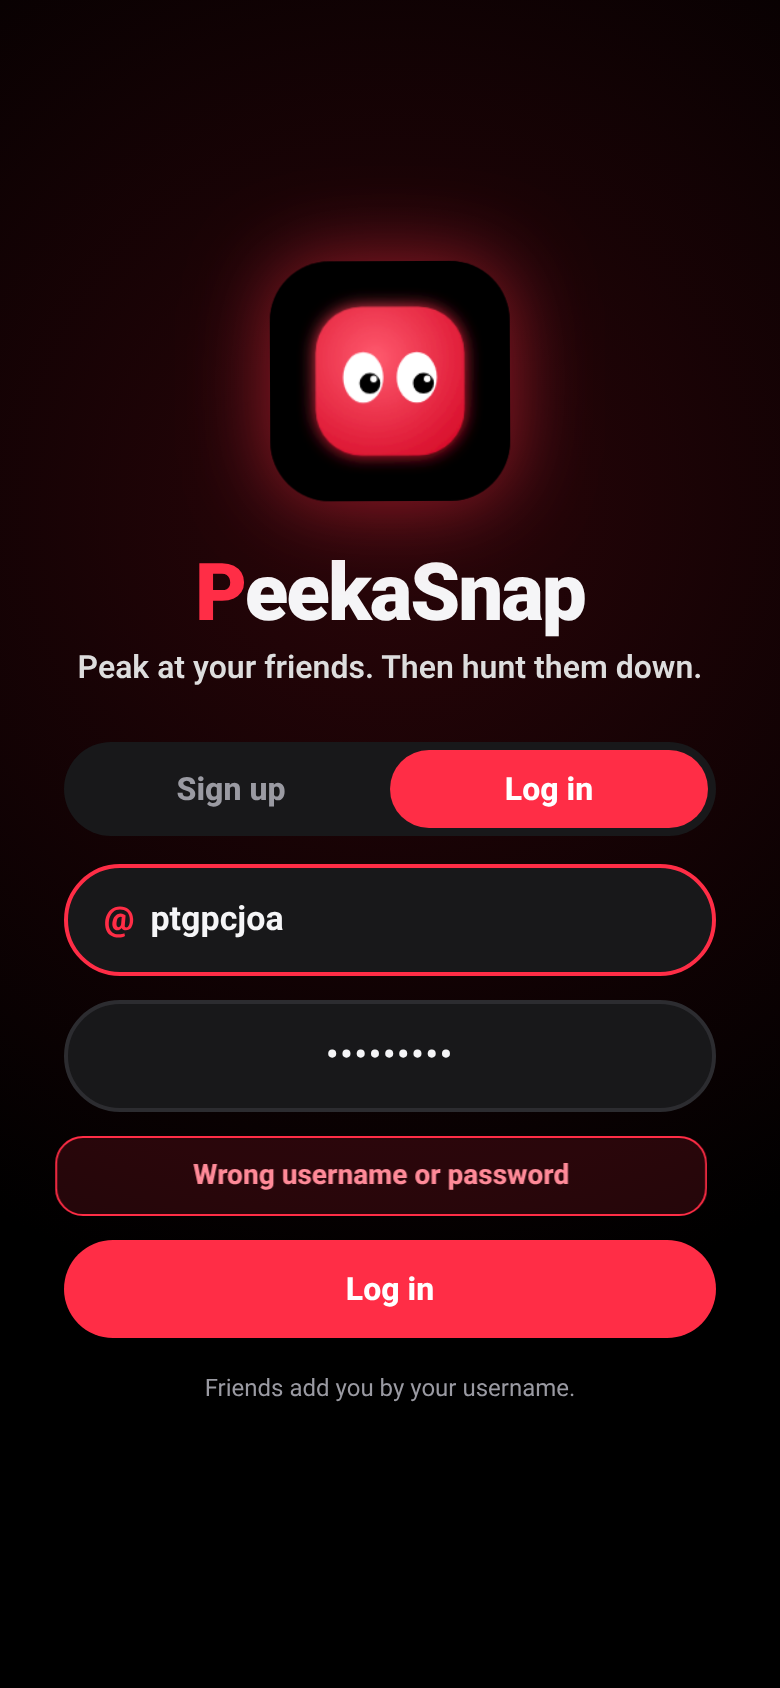
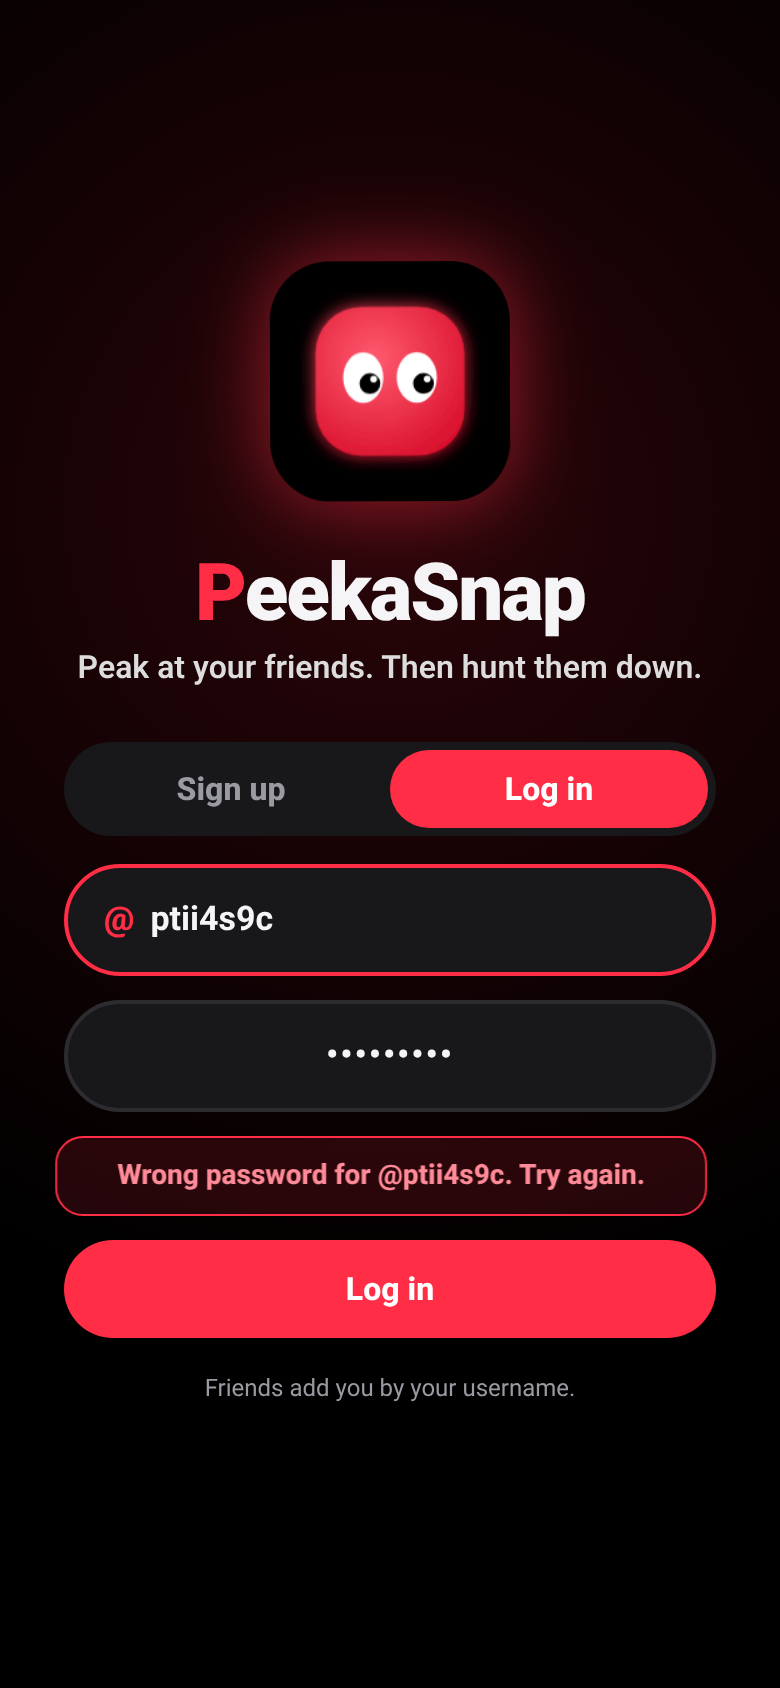
Login: clear 'No account with that username' error + Sign up shortcut; explain stale sign-outs after server resets; SW v9

Changed region(s): [[0.1538, 0.6777, 0.8308, 0.7085], [0.2154, 0.5237, 0.3692, 0.5545]]

diff --git a/public/app.js b/public/app.js
@@ -200,7 +200,13 @@ async function boot() {
   if (!S.token) return showOnboard();
   try { const me = await api('/api/me'); S.user = me.user; S.groups = me.groups; }
   catch (e) {
-    if (e.status === 401) { localStorage.removeItem('ps_token'); S.token = null; return showOnboard('login'); }
+    if (e.status === 401) { // saved login no longer valid (logged out elsewhere, or the free server was reset and lost accounts)
+      localStorage.removeItem('ps_token'); S.token = null;
+      const last = localStorage.getItem('ps_last_user');
+      showOnboard('login', last ? `You were signed out of @${last}. Log in again, or if PeekaSnap says the account doesn't exist, sign up again with the same username.` : 'You were signed out. Log in again.');
+      if (last) $('#login-username').value = last;
+      return;
+    }
     bootTries = (bootTries || 0) + 1; toast(bootTries > 1 ? e.message : 'Connecting to PeekaSnap…'); // e.g. server waking up
     if (bootTries < 8) setTimeout(boot, 3000); return;
   }
@@ -214,7 +220,9 @@ async function boot() {
   startWatch(); ensurePush();
   setTimeout(maybeShowInstallCard, 2500);
 }
-function showOnboard(mode = 'signup') {
+function showOnboard(mode = 'signup', note = '') {
+  $('#auth-note').textContent = note; $('#auth-note').classList.toggle('hidden', !note || mode === 'setpw');
+  $('#login-to-signup').classList.add('hidden');
   $('#onboard').classList.remove('hidden'); $('#app').classList.add('hidden');
   ['signup', 'login', 'setpw'].forEach(m => $('#' + m + '-form').classList.toggle('hidden', m !== mode));
   $('.auth-tabs').classList.toggle('hidden', mode === 'setpw');
@@ -224,6 +232,13 @@ function showOnboard(mode = 'signup') {
 }
 $('#tab-signup').onclick = () => showOnboard('signup');
 $('#tab-login').onclick = () => showOnboard('login');
+// "No account with that username": jump to Sign up with the username (and password) already filled in
+$('#login-to-signup').onclick = () => {
+  const u = $('#login-username').value.trim().toLowerCase().replace(/^@/, ''), pw = $('#login-password').value;
+  showOnboard('signup');
+  const su = $('#signup-username'); su.value = u; su.dataset.touched = 1; $('#signup-password').value = pw;
+  setTimeout(() => $('#signup-name').focus(), 60);
+};
 async function afterAuth(token) {
   S.token = token; localStorage.setItem('ps_token', token); if (S.socket) S.socket.auth.token = token;
   const q = new URLSearchParams(location.search);
@@ -257,7 +272,7 @@ $('#signup-form').onsubmit = e => {
     : pw.value.length < 6 ? { el: pw, msg: 'Password must be at least 6 characters.' } : null,
   async () => {
     const r = await api('/api/signup', { body: { name: name.value.trim(), username: user.value, password: pw.value } });
-    pw.value = ''; await afterAuth(r.token);
+    pw.value = ''; localStorage.setItem('ps_last_user', r.user.username); await afterAuth(r.token);
   });
 };
 $('#login-form').onsubmit = e => {
@@ -266,8 +281,14 @@ $('#login-form').onsubmit = e => {
   runAuthForm(e.target, 'login-err', () =>
     !user.value.trim() ? { el: user, msg: 'Enter your username.' } : !pw.value ? { el: pw, msg: 'Enter your password.' } : null,
   async () => {
-    const r = await api('/api/login', { body: { username: user.value, password: pw.value } });
-    pw.value = ''; await afterAuth(r.token);
+    $('#login-to-signup').classList.add('hidden');
+    let r;
+    try { r = await api('/api/login', { body: { username: user.value, password: pw.value } }); }
+    catch (err) {
+      if (err.data?.noAccount) { $('#login-to-signup-user').textContent = '@' + err.data.username; $('#login-to-signup').classList.remove('hidden'); user.classList.add('bad'); }
+      throw err;
+    }
+    pw.value = ''; localStorage.setItem('ps_last_user', r.user.username); await afterAuth(r.token);
   });
 };
 $('#setpw-form').onsubmit = e => {

diff --git a/test/auth-ui.js b/test/auth-ui.js
@@ -61,7 +61,7 @@ const IOS_UA = 'Mozilla/5.0 (iPhone; CPU iPhone OS 18_1 like Mac OS X) AppleWebK
     await page.press('#login-password', 'Enter');
     await page.waitForFunction(() => document.querySelector('#login-err').classList.contains('show'), null, { timeout: 30000 });
     if (S) await page.screenshot({ path: path.join(__dirname, '..', 'screenshots', '32-log-in-wrong-password.png') });
-    ok(/wrong username or password/i.test(await errText(page, 'login-err')), `wrong password: visible error "${await errText(page, 'login-err')}"`);
+    ok(/wrong password/i.test(await errText(page, 'login-err')), `wrong password: visible error "${await errText(page, 'login-err')}"`);
     await ctx.setOffline(true);
     await page.fill('#login-password', 'secret123'); await page.press('#login-password', 'Enter');
     await page.waitForFunction(() => document.querySelector('#login-err').classList.contains('show'), null, { timeout: 15000 });
@@ -72,6 +72,29 @@ const IOS_UA = 'Mozilla/5.0 (iPhone; CPU iPhone OS 18_1 like Mac OS X) AppleWebK
     ok(true, 'correct password logs in');
     ok(!errors.length, 'no page errors' + (errors.length ? ': ' + errors.join(' | ') : ''));
     await ctx.close();
+
+    // account that doesn't exist (e.g. wiped by a free-server restart) -> clear message + Sign up shortcut with username filled in
+    { const nctx = await browser.newContext(phone); const np = await nctx.newPage(); await np.goto(BASE + '/', { waitUntil: 'networkidle' });
+      const ghost = 'gh' + tag;
+      await np.click('#tab-login'); await np.fill('#login-username', ghost); await np.fill('#login-password', 'ghostpass1'); await np.press('#login-password', 'Enter');
+      await np.waitForFunction(() => document.querySelector('#login-err').classList.contains('show'), null, { timeout: 30000 });
+      const msg = await errText(np, 'login-err');
+      ok(/no account with the username @/i.test(msg) && /sign up/i.test(msg), `no such account: clear error "${msg}"`);
+      ok(await np.isVisible('#login-to-signup') && (await np.textContent('#login-to-signup')).includes('@' + ghost), 'no such account: "Sign up as @name" button shown');
+      if (S) await np.screenshot({ path: path.join(__dirname, '..', 'screenshots', '43-login-no-account.png') });
+      await np.click('#login-to-signup');
+      ok(await np.isVisible('#signup-form') && await np.inputValue('#signup-username') === ghost && await np.inputValue('#signup-password') === 'ghostpass1', 'Sign up shortcut opens Sign up with username + password filled in');
+      await np.fill('#signup-name', 'Ghost'); await np.press('#signup-name', 'Enter');
+      await np.waitForSelector('#app:not(.hidden)', { timeout: 30000 }); ok(true, 'signing up from the shortcut works');
+      // simulate the server losing accounts: saved token stops working -> signed-out note, username prefilled
+      await np.evaluate(() => localStorage.setItem('ps_token', 'stale-token-from-wiped-server'));
+      await np.reload({ waitUntil: 'networkidle' });
+      await np.waitForSelector('#login-form:not(.hidden)', { timeout: 30000 });
+      const note = await np.textContent('#auth-note');
+      ok(await np.isVisible('#auth-note') && note.includes('@' + ghost), `stale saved login: explains sign-out "${note.trim().slice(0, 60)}…"`);
+      ok(await np.inputValue('#login-username') === ghost, 'stale saved login: username prefilled on Log in');
+      if (S) await np.screenshot({ path: path.join(__dirname, '..', 'screenshots', '44-signed-out-note.png') });
+      await nctx.close(); }
 
     // installed Home Screen app (standalone)
     const sctx = await browser.newContext({ ...phone, userAgent: IOS_UA.replace(' Version/18.1', '').replace(' Safari/604.1', '') });

diff --git a/test/auth.js b/test/auth.js
@@ -18,7 +18,11 @@ const { startServer, reporter, once } = require('./helpers');
     await new Promise(r => setTimeout(r, 1500)); const raw = fs.readFileSync(dir + '/d/db.json', 'utf8');
     ok(!raw.includes('hunter22') && /scrypt\$/.test(raw) && !raw.includes(p.token), 'stored as a scrypt hash; raw password and token never saved');
     ok((await api('/api/login', { body: { username: 'pat', password: 'wrongpass' } })).status === 401, 'wrong password rejected');
-    ok((await api('/api/login', { body: { username: 'nobody', password: 'hunter22' } })).status === 401, 'unknown username rejected (same message)');
+    { const r = await api('/api/login', { body: { username: '@Nobody', password: 'hunter22' } });
+      ok(r.status === 404 && r.noAccount === true && r.username === 'nobody', 'unknown username: 404 noAccount with the username');
+      ok(/no account with the username @nobody/i.test(r.error) && /sign up/i.test(r.error), 'unknown username: clear "No account… Sign up?" message'); }
+    { const r = await api('/api/login', { body: { username: 'pat', password: 'wrongpass2' } });
+      ok(r.status === 401 && !r.noAccount && /wrong password/i.test(r.error), 'wrong password for a real account: says wrong password, not "no account"'); }
     const l = await api('/api/login', { body: { username: '@PAT', password: 'hunter22' } });
     ok(l.token && l.token !== p.token, 'log in with password (case-insensitive username) creates a new session');
     const sk = io(S.BASE, { auth: { token: l.token } }); await once(sk, 'connect', 5000); ok(sk.connected, 'realtime socket accepts the session token'); sk.close();

diff --git a/server.js b/server.js
@@ -276,7 +276,8 @@ app.post('/api/login', (req, res) => {
   if (loginBlocked(key)) return res.status(429).json({ error: 'Too many tries. Wait 15 minutes and try again.' });
   const u = Object.values(db.users).find(x => x.username === username);
   if (u && !u.passHash) return res.status(403).json({ error: 'This account has no password yet. Open PeekaSnap on the device you signed up on and it will ask you to set one.', needsPassword: true });
-  if (!u || !checkPassword(req.body.password || '', u.passHash)) { noteFail(key); return res.status(401).json({ error: 'Wrong username or password' }); }
+  if (!u) { noteFail(key); return res.status(404).json({ error: `No account with the username @${username.slice(0, 20)}. Sign up?`, noAccount: true, username: username.slice(0, 20) }); }
+  if (!checkPassword(req.body.password || '', u.passHash)) { noteFail(key); return res.status(401).json({ error: 'Wrong password for @' + username + '. Try again.' }); }
   loginFails.delete(key);
   const token = newSession(u); save();
   res.json({ user: { ...publicUser(u), shareLocation: !!u.shareLocation }, token });

diff --git a/public/index.html b/public/index.html
@@ -49,10 +49,12 @@
     <div id="signup-err" class="form-err" role="alert" aria-live="assertive"></div>
     <button class="btn-dark" type="submit">Sign up</button>
   </form>
+  <div id="auth-note" class="auth-note hidden" role="status"></div>
   <form id="login-form" novalidate class="onboard-form hidden">
     <div class="at-input"><span>@</span><input id="login-username" maxlength="20" placeholder="username" autocapitalize="none" autocomplete="username" spellcheck="false" required></div>
     <input id="login-password" type="password" maxlength="200" placeholder="Password" autocomplete="current-password" required>
     <div id="login-err" class="form-err" role="alert" aria-live="assertive"></div>
+    <button id="login-to-signup" class="btn-red hidden" type="button">Sign up as <b id="login-to-signup-user"></b></button>
     <button class="btn-dark" type="submit">Log in</button>
   </form>
   <form id="setpw-form" novalidate class="onboard-form hidden">

diff --git a/public/styles.css b/public/styles.css
@@ -592,3 +592,5 @@ button.loading::before{content:"";display:inline-block;width:14px;height:14px;ma
 #call-controls,#call-incoming{margin-top:auto}
 .call.video #call-local:not(.live){display:none}
 .call-btn{color:#fff;font-weight:900}
+.auth-note{max-width:340px;width:100%;margin:0 0 12px;background:rgba(255,255,255,.07);border:1.5px solid var(--line);border-radius:14px;padding:10px 12px;font-size:13px;line-height:1.4;color:#ddd;font-weight:600}
+#login-to-signup{width:100%}

diff --git a/public/sw.js b/public/sw.js
@@ -1,5 +1,5 @@
 /* PeekaSnap service worker: app-shell cache, offline fallback, push + notification clicks */
-const VERSION = 'peekasnap-v8';
+const VERSION = 'peekasnap-v9';
 const SHELL = [
   '/', '/index.html', '/styles.css', '/app.js', '/game.js', '/hunt.js', '/call.js', '/manifest.json', '/offline.html', '/icon.svg',
   '/icons/icon-192.png', '/icons/icon-512.png', '/icons/maskable-512.png', '/icons/apple-touch-icon.png', '/icons/favicon-32.png',

diff --git a/README.md b/README.md
@@ -105,5 +105,5 @@ Run a single instance. Ping timers and the JSON store live in one process.
 - Accounts have no email or password reset: if you forget your password, the account can't be recovered. Story and chat photo URLs are unguessable but not access-controlled (Peak photos are private and served once).
 - No screenshot detection or blocking (browsers don't allow it).
 - GPS can be off by 5–30 m, which is why tags and finds have a confirm fallback. Background location doesn't run on iOS/Android web when the app is closed, so keep the app open during a Manhunt.
-- On Render's free plan the data file and uploaded photos (profile pictures, Memories and saved Peaks included) are wiped on every deploy/restart, and the service sleeps when idle (first load can take ~1 min).
+- On Render's free plan the data file and uploaded photos (profile pictures, Memories and saved Peaks included) are wiped on every deploy/restart, and the service sleeps when idle (first load can take ~1 min). When that happens accounts are gone: logging in shows **“No account with the username @name. Sign up?”** with a one-tap **Sign up as @name** button (username and password carried over), and a phone whose saved login stopped working sees a “You were signed out of @name” note with the username filled in. A wrong password for an existing account says “Wrong password for @name”.
 - Uses the public OpenStreetMap tile server: fine for a small group, not heavy traffic.
